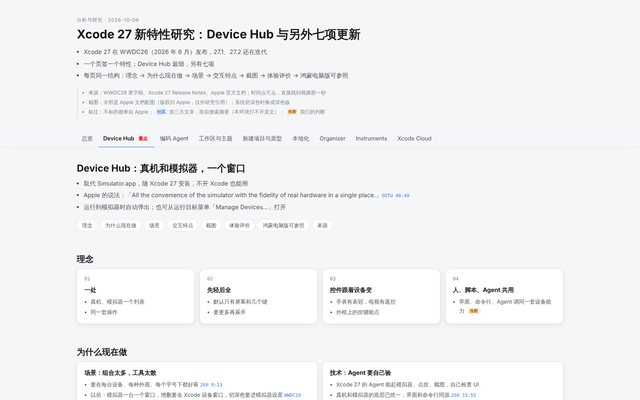
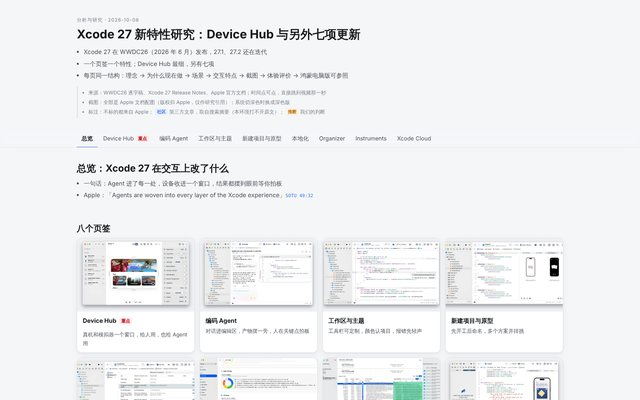
Xcode 27 研究：补新建项目与原型、总览两个页签，九个页签齐了；重截启动页缩略图
- 新建项目与原型：无标题工程、单文件即预览、命名预览成页签、Agent 出多方案
- 总览：八个页签的图卡入口、三个判断、一览表、为什么是现在、鸿蒙电脑版先做的五件、方法与局限
- 去掉初稿遗留样式，补回窄屏单列规则；页签链接切换后回到页签栏
- 启动页卡片说明按现状更新；缩略图与脚本版本号 → 20261008h

diff --git a/analysis/xcode27/REPORT-Xcode27新特性研究.html b/analysis/xcode27/REPORT-Xcode27新特性研究.html
@@ -37,7 +37,6 @@ h1{font-size:30px;line-height:1.3;margin:6px 0 12px}
 h2{font-size:21px;margin:52px 0 6px}
 h2 small{font-size:13px;font-weight:400;color:var(--ink3);margin-left:8px}
 h3{font-size:16px;margin:26px 0 8px}
-.sub{color:var(--ink2);margin:0 0 16px;max-width:84ch}
 nav.toc{display:flex;flex-wrap:wrap;gap:6px;margin:18px 0 0}
 nav.toc a{font-size:13px;border:1px solid var(--line);background:var(--paper);border-radius:999px;padding:3px 12px;color:var(--ink2)}
 
@@ -54,44 +53,7 @@ nav.toc a{font-size:13px;border:1px solid var(--line);background:var(--paper);bo
 .panel>h2:first-child{margin-top:28px}
 .pt{font-size:24px;line-height:1.35;margin:28px 0 8px}
 
-/* 结论卡 */
-.keys{display:grid;grid-template-columns:repeat(3,minmax(0,1fr));gap:12px;margin-top:20px}
-.keys.k4{grid-template-columns:repeat(4,minmax(0,1fr))}
-.key{background:var(--paper);border:1px solid var(--line);border-radius:12px;padding:16px 18px;box-shadow:var(--shadow)}
-.key b{display:block;font-size:15px;margin-bottom:4px}
-.key span,.key p{color:var(--ink2);font-size:13.5px;margin:0}
-.key .n{font-family:var(--mono);font-size:12px;color:var(--ink3);margin-bottom:6px;display:block}
-
-/* 引文 */
-.quotes{display:grid;grid-template-columns:repeat(2,minmax(0,1fr));gap:12px;margin:18px 0 0}
-.q{margin:0;background:var(--paper);border:1px solid var(--line);border-left:3px solid var(--ap);border-radius:10px;padding:12px 16px;box-shadow:var(--shadow)}
-.q blockquote{margin:0;font-style:italic;color:var(--ink);font-size:13.5px}
-.q figcaption{margin-top:6px;font-size:12.5px;color:var(--ink2)}
 .ts{font-family:var(--mono);font-size:11.5px;white-space:nowrap}
-.en{font-style:italic;color:var(--ink2)}
-
-/* 速览 */
-.facts{display:grid;grid-template-columns:repeat(2,minmax(0,1fr));gap:6px 28px;margin:18px 0 0;background:var(--paper);border:1px solid var(--line);border-radius:12px;padding:14px 18px;box-shadow:var(--shadow)}
-.facts div{display:grid;grid-template-columns:4.5em 1fr;gap:10px;font-size:13.5px;padding:4px 0;border-bottom:1px dashed var(--line2)}
-.facts dt{color:var(--ink3);margin:0} .facts dd{margin:0;color:var(--ink2)}
-
-/* 动因四层 */
-.why{display:grid;grid-template-columns:repeat(2,minmax(0,1fr));gap:12px}
-.why>div{background:var(--paper);border:1px solid var(--line);border-radius:12px;padding:14px 18px;box-shadow:var(--shadow)}
-.why h4{margin:0 0 6px;font-size:14.5px}
-.why h4 i{font-style:normal;font-family:var(--mono);font-size:12px;color:var(--ink3);margin-right:6px}
-.why ul{margin:0;padding-left:18px;color:var(--ink2);font-size:13.5px} .why li{margin:4px 0}
-
-/* 场景流程 */
-.flows{display:grid;grid-template-columns:repeat(2,minmax(0,1fr));gap:12px}
-.flow{background:var(--paper);border:1px solid var(--line);border-radius:12px;padding:14px 18px;box-shadow:var(--shadow)}
-.flow.wide{grid-column:1/-1}
-.flow h4{margin:0 0 2px;font-size:14.5px}
-.flow .who{font-size:12.5px;color:var(--ink3);margin-bottom:8px}
-.flow ol{margin:0;padding-left:20px;color:var(--ink2);font-size:13.5px} .flow li{margin:3px 0}
-.flow .cols{display:grid;grid-template-columns:repeat(2,minmax(0,1fr));gap:4px 24px}
-.flow .role{font-size:12px;font-weight:600;color:var(--ink);margin:6px 0 2px}
-.flow .end{margin:8px 0 0;font-size:13px;color:var(--ink2);border-top:1px dashed var(--line);padding-top:8px}
 
 /* 表格 */
 .tw{background:var(--paper);border:1px solid var(--line);border-radius:12px;overflow:auto;box-shadow:var(--shadow)}
@@ -100,13 +62,10 @@ th,td{text-align:left;vertical-align:top;padding:10px 12px;border-bottom:1px sol
 thead th{font-size:12px;color:var(--ink3);background:var(--line2);font-weight:600}
 tbody th{font-weight:600;white-space:nowrap}
 tr:last-child td,tr:last-child th{border-bottom:none}
-td p{margin:0 0 4px} td p:last-child{margin:0}
-td .claim{font-weight:600;color:var(--ink)}
 .ev{display:inline-block;font-size:11px;font-weight:600;border-radius:4px;padding:0 5px;line-height:17px;margin-left:4px;vertical-align:1px;white-space:nowrap;font-style:normal}
 .ev.o{background:var(--ok-bg);color:var(--ok)}      /* 官方 */
 .ev.m{background:var(--ap-bg);color:var(--ap)}      /* 社区 / 媒体 */
 .ev.i{background:var(--warn-bg);color:var(--warn)}  /* 推断 */
-.ev.q{background:var(--mute-bg);color:var(--ink3)}  /* 待确认 */
 .legend{display:flex;flex-wrap:wrap;gap:10px;font-size:12.5px;color:var(--ink2);margin:0 0 12px}
 
 /* 截图 */
@@ -121,38 +80,16 @@ td .claim{font-weight:600;color:var(--ink)}
 .shot figcaption b{color:var(--ink)}
 .shot .from{display:block;font-size:12px;color:var(--ink3);margin-top:4px}
 
-/* 设备层示意 */
-.layer{display:grid;gap:8px;background:var(--paper);border:1px solid var(--line);border-radius:12px;padding:16px;box-shadow:var(--shadow);margin-top:12px}
-.layer .row{display:grid;grid-template-columns:repeat(3,minmax(0,1fr));gap:8px}
-.layer .box{border:1px solid var(--line);border-radius:10px;padding:10px 12px;font-size:13px;color:var(--ink2);background:var(--bg)}
-.layer .box b{display:block;color:var(--ink);font-size:13.5px}
-.layer .bar{border-radius:10px;padding:10px 12px;font-size:13px;text-align:center;background:var(--ap-bg);color:var(--ap);font-weight:600}
-.layer .bar span{display:block;font-weight:400;font-size:12.5px;color:var(--ink2)}
-.layer .arrow{text-align:center;color:var(--ink3);font-size:12px;line-height:1}
-.layer .cap{font-size:12.5px;color:var(--ink3);margin:2px 0 0}
-
-/* 社区 */
-.voices{display:grid;grid-template-columns:repeat(2,minmax(0,1fr));gap:12px}
-.voice{background:var(--paper);border:1px solid var(--line);border-radius:12px;padding:14px 16px;box-shadow:var(--shadow)}
-.voice b{display:block;margin-bottom:4px}
-.voice span{color:var(--ink2);font-size:13.5px}
-.voice.pos{border-top:3px solid var(--ok)} .voice.neg{border-top:3px solid var(--warn)} .voice.eco{border-top:3px solid var(--ap)}
-ul.plain{margin:0;padding-left:20px;color:var(--ink2)} ul.plain li{margin:4px 0}
-
 /* 机会点 */
 .lvl{display:inline-block;font-size:11.5px;font-weight:700;border-radius:5px;padding:0 7px;line-height:19px;white-space:nowrap}
 .lvl.a{background:var(--hm);color:#fff} .lvl.b{background:var(--ap-bg);color:var(--ap)} .lvl.c{background:var(--mute-bg);color:var(--ink2)}
 .cmp{font-size:12px;font-weight:600;white-space:nowrap}
 .cmp.u{color:var(--hm)} .cmp.y{color:var(--ap)}
-.hmbox{background:color-mix(in srgb,var(--hm-bg) 55%,var(--paper));border:1px solid color-mix(in srgb,var(--hm) 25%,var(--line));border-radius:12px;padding:14px 18px;margin:0 0 12px;color:var(--ink2);font-size:13.5px}
-.hmbox b{color:var(--ink)}
-.hmbox p{margin:0 0 6px} .hmbox p:last-child{margin:0}
 
 .src{font-size:12.5px;color:var(--ink2);columns:2;column-gap:28px;padding-left:18px}
 .src li{margin:2px 0;break-inside:avoid}
 .src .grp{list-style:none;margin:10px 0 2px -18px;font-weight:600;color:var(--ink);break-after:avoid}
 .src .grp:first-child{margin-top:0}
-
 
 /* v2：分点、卡片 */
 ul.pts{margin:0;padding-left:1.15em;color:var(--ink2)} ul.pts li{margin:3px 0}
@@ -180,15 +117,26 @@ ul.pts.hmnote b{color:var(--ink)}
 .shot figcaption ul.pts{margin-top:4px}
 .shot .from{display:inline;margin-left:6px}
 
+/* 总览：特性卡 */
+.feat{display:grid;grid-template-columns:repeat(4,minmax(0,1fr));gap:12px}
+.feat a{display:flex;flex-direction:column;background:var(--paper);border:1px solid var(--line);border-radius:12px;overflow:hidden;color:inherit;box-shadow:var(--shadow);text-decoration:none}
+.feat a:hover{border-color:var(--accent)}
+.feat picture{display:block;background:var(--line2)}
+.feat img{display:block;width:100%;height:auto;aspect-ratio:16/10;object-fit:cover;object-position:50% 35%}
+.feat b{display:block;font-size:15px;margin:10px 14px 2px;color:var(--ink)}
+.feat b .k{display:inline-block;font-size:11px;font-weight:600;color:var(--hm);background:var(--hm-bg);border-radius:4px;padding:0 5px;margin-left:4px;line-height:17px;vertical-align:1px}
+.feat span{display:block;font-size:13px;color:var(--ink2);margin:0 14px 12px}
+ol.steps.big{font-size:14.5px;padding-left:1.5em} ol.steps.big li{margin:8px 0} ol.steps.big b{color:var(--ink)}
+.tagd{display:inline-block;font-size:11.5px;color:var(--ink3);background:var(--line2);border-radius:5px;padding:0 7px;line-height:19px;margin-left:6px;white-space:nowrap}
+
 @media (max-width:900px){
-  .keys,.keys.k4,.quotes,.why,.flows,.voices,.shots,.facts,.flow .cols,.layer .row,.cards.c2,.cards.c3,.split{grid-template-columns:1fr}
-  .cards.c4{grid-template-columns:repeat(2,minmax(0,1fr))}
+  .shots,.cards.c2,.cards.c3,.split{grid-template-columns:1fr}
+  .cards.c4,.feat{grid-template-columns:repeat(2,minmax(0,1fr))}
   .src{columns:1}
 }
 @media (max-width:560px){
   .wrap{padding:24px 16px 0} .wrap.body{padding:8px 16px 60px} .tabs .in{padding:0 8px}
-  h1{font-size:24px} .pt{font-size:20px} .cards.c4{grid-template-columns:1fr}
-  .facts div{grid-template-columns:4em 1fr}
+  h1{font-size:24px} .pt{font-size:20px} .cards.c4{grid-template-columns:1fr} .tagd{white-space:normal}
 }
 @media print{
   .tabs{display:none} .panel[hidden]{display:block} .panel{break-before:page}
@@ -227,7 +175,72 @@ ul.pts.hmnote b{color:var(--ink)}
 
 <!-- ======================================================= 总览 -->
 <section class="panel" id="overview" role="tabpanel" aria-labelledby="t-overview">
-<!--OVERVIEW-->
+  <h2 class="pt">总览：Xcode 27 在交互上改了什么</h2>
+  <ul class="pts lead">
+    <li>一句话：Agent 进了每一处，设备收进一个窗口，结果都摆到眼前等你拍板</li>
+    <li>Apple：「Agents are woven into every layer of the Xcode experience」<a class="ts" href="https://developer.apple.com/videos/play/wwdc2026/102/?time=2972">SOTU 49:32</a></li>
+  </ul>
+
+  <h2>八个页签</h2>
+  <div class="feat">
+    <a href="#device-hub"><picture><source media="(prefers-color-scheme: dark)" srcset="images/device-hub/resize-iphone-canvas-dark.webp"><img src="images/device-hub/resize-iphone-canvas.webp" width="1600" height="1011" alt="Device Hub 完整窗口"></picture><b>Device Hub <span class="k">重点</span></b><span>真机和模拟器一个窗口，给人用，也给 Agent 用</span></a>
+    <a href="#agents"><picture><source media="(prefers-color-scheme: dark)" srcset="images/agents/coding-assistant-write-code-dark.webp"><img src="images/agents/coding-assistant-write-code.webp" width="1600" height="990" alt="编码助手在编辑区"></picture><b>编码 Agent</b><span>对话进编辑区，产物摆一旁，人在关键点拍板</span></a>
+    <a href="#workspace"><picture><source media="(prefers-color-scheme: dark)" srcset="images/workspace/coding-assistant-generate-fix-it-dark.webp"><img src="images/workspace/coding-assistant-generate-fix-it.webp" width="1600" height="929" alt="低调的行内问题"></picture><b>工作区与主题</b><span>工具栏可定制，颜色认项目，报错先轻声</span></a>
+    <a href="#new-project"><picture><source media="(prefers-color-scheme: dark)" srcset="images/new-project/show-previews-in-canvas-dark.webp"><img src="images/new-project/show-previews-in-canvas.webp" width="1600" height="868" alt="命名预览变成画布页签"></picture><b>新建项目与原型</b><span>先开工后命名，多个方案并排挑</span></a>
+    <a href="#localization"><picture><source media="(prefers-color-scheme: dark)" srcset="images/localization/string-catalog-editor-generate-translations-button-dark.webp"><img src="images/localization/string-catalog-editor-generate-translations-button.webp" width="1600" height="868" alt="字符串目录里生成译文"></picture><b>本地化</b><span>说一句加语言，Agent 带上下文译，人只审</span></a>
+    <a href="#organizer"><picture><source media="(prefers-color-scheme: dark)" srcset="images/organizer/analyzing-the-performance-of-your-shipping-app-insights-overview-dark.webp"><img src="images/organizer/analyzing-the-performance-of-your-shipping-app-insights-overview.webp" width="1470" height="885" alt="Organizer 总览"></picture><b>Organizer</b><span>线上问题一屏看，选一条交给 Agent</span></a>
+    <a href="#instruments"><picture><source media="(prefers-color-scheme: dark)" srcset="images/instruments/run-comparison-view-dark.webp"><img src="images/instruments/run-comparison-view.webp" width="1470" height="845" alt="改前改后对比"></picture><b>Instruments</b><span>最重函数 + 改前改后对比，卡顿从猜变成证</span></a>
+    <a href="#xcode-cloud"><picture><source media="(prefers-color-scheme: dark)" srcset="images/xcode-cloud/xcode-cloud-get-started-dark.webp"><img src="images/xcode-cloud/xcode-cloud-get-started.webp" width="1600" height="990" alt="Xcode Cloud 入口"></picture><b>Xcode Cloud</b><span>三步跑起首次云端构建，发版往后放</span></a>
+  </div>
+
+  <h2>三个判断</h2>
+  <div class="cards c3">
+    <div class="card"><span class="n">01</span><b>Agent 进了每一处</b><ul class="pts"><li>编辑器、本地化、线上问题、性能、设备，都能交给 Agent</li><li>人只在关键点出手：批计划、写批注、看对比</li></ul></div>
+    <div class="card"><span class="n">02</span><b>「验」成了主角</b><ul class="pts"><li>「new tools for agents to check their work」<a class="ts" href="https://developer.apple.com/videos/play/wwdc2026/102/?time=3193">SOTU 53:13</a></li><li>设备自验、预览变体、性能对比、云端构建，都在帮人和 Agent 验</li></ul></div>
+    <div class="card"><span class="n">03</span><b>少打扰，一眼可见</b><ul class="pts"><li>紧凑窗、淡色问题、标题下的进度</li><li>会话状态点、按影响排序的总览</li></ul></div>
+  </div>
+
+  <h2>一览<small>交互 → 给谁 → 解决什么</small></h2>
+  <div class="tw"><table class="slim">
+    <thead><tr><th>页签</th><th>交互的核心</th><th>给谁</th><th>解决什么</th></tr></thead>
+    <tbody>
+      <tr><th><a href="#device-hub">Device Hub</a></th><td>紧凑窗 → 三栏；设置即改即见；导出 / 换上 App 数据</td><td>跑 App 的人、测试</td><td>设备散、配置难、复现难</td></tr>
+      <tr><th><a href="#agents">编码 Agent</a></th><td>左对话右产物；计划可批注；会话状态点</td><td>用 Agent 的开发者</td><td>改了什么看不全、不知道谁在等我</td></tr>
+      <tr><th><a href="#workspace">工作区与主题</a></th><td>进度在标题下；按工作区设主题；预测问题淡显</td><td>所有人</td><td>被打断、认不出项目</td></tr>
+      <tr><th><a href="#new-project">新建项目与原型</a></th><td>无标题工程；单文件即预览；命名预览成页签</td><td>想试点子的人</td><td>起步门槛高、被第一个方案带偏</td></tr>
+      <tr><th><a href="#localization">本地化</a></th><td>说一句加语言；目录里一键生成；进度实时填表</td><td>做多语言的团队</td><td>工程量大、同词异义</td></tr>
+      <tr><th><a href="#organizer">Organizer</a></th><td>按影响排序；目标线；「生成建议」交给 Agent</td><td>已上架的开发者</td><td>看见了却不知道怎么修</td></tr>
+      <tr><th><a href="#instruments">Instruments</a></th><td>最重函数；同区间红绿对比；并发轨道</td><td>查卡顿的人</td><td>开销分散、修完难验</td></tr>
+      <tr><th><a href="#xcode-cloud">Xcode Cloud</a></th><td>三步首跑；默认流程；发版时才建记录</td><td>第一次用 CI 的人</td><td>配置门槛高</td></tr>
+    </tbody>
+  </table></div>
+
+  <h2>为什么是现在</h2>
+  <div class="cards c2">
+    <div class="card"><b>Agent 成熟了</b><ul class="pts"><li>Claude、Codex、Gemini 进了 Xcode，模型自选</li><li>MCP、ACP、Skills 让 Agent 能调 Xcode 的工具</li></ul></div>
+    <div class="card"><b>写得快，验成了瓶颈</b><ul class="pts"><li>「writing more code than ever before」<a class="ts" href="https://developer.apple.com/videos/play/wwdc2026/261/?time=82">261 1:22</a></li><li>于是有计划审批、设备自验、性能对比、云端兜底</li></ul></div>
+    <div class="card"><b>平台在变</b><ul class="pts"><li>Liquid Glass 新外观，带来新的动画掉帧</li><li>iPhone 应用可缩放、iPhone Duo、Vision Pro：尺寸和形态都变多</li></ul></div>
+    <div class="card"><b>竞争在 IDE 外</b><ul class="pts"><li>Claude Code、Codex、Cursor 在 Xcode 之外抢开发者 <span class="ev i">推断</span></li><li>Apple 的牌：「回答扎根 Swift 与 Apple 框架」<a class="ts" href="https://developer.apple.com/videos/play/wwdc2026/102/?time=2999">SOTU 49:59</a>，加上设备与线上数据这些只有平台方才有的能力</li></ul></div>
+  </div>
+
+  <h2>鸿蒙电脑版：先做这五件</h2>
+  <ol class="steps big">
+    <li><b>设备中心三栏化 + 紧凑窗</b>：本机窗口、模拟器、真机一处管，跑起来就弹小窗，按键随形态变 <span class="tagd">Device Hub · 接 20 / 17</span></li>
+    <li><b>拖宽即切断点</b>：设备中心和预览器同一套拖边手势，吸附一多断点 <span class="tagd">Device Hub · 新建项目 · 接 17</span></li>
+    <li><b>真机发现、模拟器复现</b>：截图 + HiLog + 沙箱数据 + 设备配置打成现场包，一键套用 <span class="tagd">Device Hub · 接 20 / 27 / 28</span></li>
+    <li><b>一个设备层给人、hdc、Agent 共用</b>：Agent 在本机窗口和真机上自己点、截图验，占用状态三处一致 <span class="tagd">Device Hub · 编码 Agent · 接 23 / 07</span></li>
+    <li><b>线上问题总览 + 一键交给 Agent</b>：崩溃、冻屏、冷启动按影响排，报告右上角「交给 Agent」 <span class="tagd">Organizer · 接 22 / 28</span></li>
+  </ol>
+  <p class="gap">每个页签末尾还有各自的「鸿蒙电脑版可参照」，标了档位和要接的 demo。鸿蒙电脑能本机跑应用，碰一碰、多屏协同、键鼠穿越都是 Apple 没有的牌（推断）。</p>
+
+  <h2>方法与局限</h2>
+  <ul class="pts">
+    <li>一手材料：WWDC26 的 Keynote、State of the Union 和十余个专题 session 的逐字稿；Xcode 27 / 27.1 / 27.2 Release Notes；Apple 官方文档</li>
+    <li>截图全部来自 Apple 文档；视频画面因网络策略拿不到</li>
+    <li>第三方评价只有搜索摘要，多来自 6–9 月的 beta 期，正式版可能已变</li>
+    <li>计划审批、行内批注、「等你」状态、无标题工程等界面，Apple 文档暂无配图</li>
+  </ul>
+
 </section>
 
 <!-- ======================================================= Device Hub -->
@@ -600,7 +613,102 @@ ul.pts.hmnote b{color:var(--ink)}
     <li><a href="https://jetbrains.com/guide/tips/configuring-the-new-ui">JetBrains 新 UI</a> · <a href="https://github.com/johnpapa/vscode-peacock">VS Code Peacock</a></li>
   </ul>
 </section>
-<!--TAB:new-project-->
+<section class="panel" id="new-project" role="tabpanel" aria-labelledby="t-new-project" hidden>
+  <h2 class="pt">新建项目与原型：点子一来就开工，多个方案并排看，人来拍板</h2>
+  <ul class="pts lead">
+    <li>「A brand new untitled project is created, no questions asked. Literally!」<a class="ts" href="https://developer.apple.com/videos/play/wwdc2026/258/?time=411">258 6:51</a></li>
+    <li>单个 Swift 文件不在工程里，也能直接出预览和运行结果</li>
+    <li>做原型：让 Agent 一次出十个方案，在画布页签里点着比 <a class="ts" href="https://developer.apple.com/videos/play/wwdc2026/227/?time=308">227 5:08</a></li>
+  </ul>
+  <nav class="toc">
+    <a href="#np-idea">理念</a><a href="#np-why">为什么现在做</a><a href="#np-scenes">场景</a><a href="#np-traits">交互特点</a><a href="#np-shots">截图</a><a href="#np-review">体验评价</a><a href="#np-hm">鸿蒙电脑版可参照</a><a href="#np-src">来源</a>
+  </nav>
+
+  <h2 id="np-idea">理念</h2>
+  <div class="cards c3">
+    <div class="card"><span class="n">01</span><b>先开工，后命名</b><ul class="pts"><li>不问名字、团队、路径</li><li>想好再存，不要就整个丢掉 <a class="ts" href="https://developer.apple.com/videos/play/wwdc2026/258/?time=420">7:00</a></li></ul></div>
+    <div class="card"><span class="n">02</span><b>多个方案，人来挑</b><ul class="pts"><li>一次要多个，免得被第一个方案带偏 <a class="ts" href="https://developer.apple.com/videos/play/wwdc2026/227/?time=219">227 3:39</a></li></ul></div>
+    <div class="card"><span class="n">03</span><b>Agent 干活，人拍板</b><ul class="pts"><li>「Remember, you always have final say.」<a class="ts" href="https://developer.apple.com/videos/play/wwdc2026/227/?time=172">227 2:52</a></li></ul></div>
+  </div>
+
+  <h2 id="np-why">为什么现在做</h2>
+  <div class="cards c2">
+    <div class="card"><b>场景：点子随时冒出来</b><ul class="pts"><li>同事发来一个想法、一段代码，想马上试 <a class="ts" href="https://developer.apple.com/videos/play/wwdc2026/258/?time=361">258 6:01</a></li><li>以前先过模板选择器、填一页选项</li></ul></div>
+    <div class="card"><b>技术：Agent 出原生代码，预览不用重建</b><ul class="pts"><li>原型就是真代码，能直接接着做 <a class="ts" href="https://developer.apple.com/videos/play/wwdc2026/227/?time=144">227 2:24</a></li><li>预览改完就看，不用每次构建运行</li></ul></div>
+    <div class="card"><b>平台：要看各种宽度</b><ul class="pts"><li>iPhone 应用能缩放了，画布也能拖边改尺寸 <span class="ev i">推断</span></li></ul></div>
+    <div class="card"><b>竞争：AI 原型工具很多</b><ul class="pts"><li>Android Studio 新建项目可选「用 AI 创建」<span class="ev m">社区</span></li><li>Apple 把「试一下」放进 IDE 本身</li></ul></div>
+  </div>
+
+  <h2 id="np-scenes">场景</h2>
+  <div class="cards c2">
+    <div class="card"><b>A · 点子 → 无标题工程 → 交给 Agent</b><span class="src1"><a class="ts" href="https://developer.apple.com/videos/play/wwdc2026/258/?time=379">258 6:19</a></span>
+      <ol class="steps"><li>File 菜单新建：App、命令行、包、Playground</li><li>选 App：直接得到无标题工程</li><li>随便试；想好再命名保存，或丢弃</li><li>同事发来一个 Swift 文件：开窗就有预览和结果</li><li>值得做下去：工具栏开对话，/plan 先出计划</li><li>读计划、批注、放行；改动在右侧看</li></ol></div>
+    <div class="card"><b>B · App 想法 → 多方案 → 调细节</b><span class="src1"><a class="ts" href="https://developer.apple.com/videos/play/wwdc2026/227/?time=274">227 4:34</a></span>
+      <ol class="steps"><li>说清功能和气质，要多个方案，各带命名预览</li><li>一次得到 10 个，在画布页签间点选</li><li>告诉 Agent 哪些元素混搭，再来一轮</li><li>让 Agent 扮演用户填真实内容；自己列边界情况</li><li>补空状态、文字溢出、超长列表</li><li>让 Agent 做调参面板，凭手感调动效</li></ol></div>
+  </div>
+
+  <h2 id="np-traits">交互特点<small>交互 → 给谁 → 解决什么</small></h2>
+  <div class="tw narrow"><table class="slim">
+    <thead><tr><th>交互</th><th>给谁</th><th>解决什么</th></tr></thead>
+    <tbody>
+      <tr><th>新建下拉直列四种起点</th><td>想试点子的人</td><td>先开工，不先选模板</td></tr>
+      <tr><th>无标题工程：存或丢</th><td>试验阶段的人</td><td>没成型的想法不占名字</td></tr>
+      <tr><th>单个文件开窗即预览</th><td>收到代码片段的人</td><td>脱离工程也能跑</td></tr>
+      <tr><th>命名预览 = 画布页签</th><td>比方案的人</td><td>多个方案一键切</td></tr>
+      <tr><th>变体并排、画布拖边</th><td>查边界情况的人</td><td>深浅色、字号、宽度一屏看</td></tr>
+      <tr><th>Agent 做调参面板</th><td>调动效的人</td><td>凭手感调，反馈更快</td></tr>
+    </tbody>
+  </table></div>
+
+  <h2 id="np-shots">截图</h2>
+  <div class="shots">
+    <figure class="shot tall"><a href="images/new-project/choosing-new-project-app.webp" target="_blank" rel="noopener"><picture><source media="(prefers-color-scheme: dark)" srcset="images/new-project/choosing-new-project-app-dark.webp"><img src="images/new-project/choosing-new-project-app.webp" width="1184" height="1488" loading="lazy" alt="欢迎窗的 New Project 下拉：App、命令行工具、包、Playground、选择模板"></picture></a>
+      <figcaption><b>新建下拉</b>：App、命令行工具、Playground 一点就开；经典模板向导退到最后一项 <span class="from"><a href="https://developer.apple.com/documentation/xcode/creating-an-xcode-project-for-an-app">新建项目</a></span></figcaption></figure>
+    <figure class="shot"><a href="images/new-project/coding-assistant-run-playground.webp" target="_blank" rel="noopener"><picture><source media="(prefers-color-scheme: dark)" srcset="images/new-project/coding-assistant-run-playground-dark.webp"><img src="images/new-project/coding-assistant-run-playground.webp" width="1600" height="1112" loading="lazy" alt="Playground 代码在左，结果在画布里"></picture></a>
+      <figcaption><b>Playground</b>：左边代码，右边画布直接出结果（值、地图） <span class="from"><a href="https://developer.apple.com/documentation/xcode/using-coding-intelligence-in-the-source-editor">编辑器里的智能</a></span></figcaption></figure>
+    <figure class="shot wide"><a href="images/new-project/show-previews-in-canvas.webp" target="_blank" rel="noopener"><picture><source media="(prefers-color-scheme: dark)" srcset="images/new-project/show-previews-in-canvas-dark.webp"><img src="images/new-project/show-previews-in-canvas.webp" width="1600" height="868" loading="lazy" alt="四个命名预览变成画布顶部的页签，下方深浅色并排"></picture></a>
+      <figcaption><b>命名预览 = 页签</b>：代码里四个 #Preview 变成画布顶部四个页签；下面深浅色并排 <span class="from"><a href="https://developer.apple.com/documentation/xcode/interacting-with-previews-in-the-canvas">画布预览</a></span></figcaption></figure>
+    <figure class="shot wide"><a href="images/new-project/resize-preview-screen.webp" target="_blank" rel="noopener"><picture><source media="(prefers-color-scheme: dark)" srcset="images/new-project/resize-preview-screen-dark.webp"><img src="images/new-project/resize-preview-screen.webp" width="1600" height="990" loading="lazy" alt="可缩放的预览画布，四边有把手，显示尺寸"></picture></a>
+      <figcaption><b>画布拖边改尺寸</b>：和 Device Hub 一样的四边把手与尺寸读数 <span class="from"><a href="https://developer.apple.com/documentation/xcode/interacting-with-previews-in-the-canvas">画布预览</a></span></figcaption></figure>
+  </div>
+  <p class="gap">无标题工程窗口、单文件独立窗口，Apple 文档暂无配图。</p>
+
+  <h2 id="np-review">体验评价</h2>
+  <div class="cards c2">
+    <div class="card good"><b>做得好</b><ul class="pts">
+      <li>起步零阻力：先开工，想好再命名</li>
+      <li>多方案一屏切换，不被第一个方案锚定</li>
+      <li>人始终拍板：计划先读后放行，可批注、可回退</li>
+    </ul></div>
+    <div class="card bad"><b>不足</b><ul class="pts">
+      <li>提示词有门槛：说得含糊，Agent 就乱猜 <a class="ts" href="https://developer.apple.com/videos/play/wwdc2026/227/?time=194">227 3:14</a></li>
+      <li>从 Finder 双击 Swift 文件，预览可能不跑（已知问题）</li>
+      <li>菜单入口变少，老路径要重新找 <span class="ev m">社区</span></li>
+    </ul></div>
+  </div>
+
+  <h2 id="np-hm">鸿蒙电脑版可参照</h2>
+  <div class="tw"><table class="slim">
+    <thead><tr><th>借什么</th><th>用在鸿蒙电脑版</th><th>档位</th><th>接哪个 demo</th></tr></thead>
+    <tbody>
+      <tr><th>无标题工程</th><td>新建不先问名字、包名、路径；先跑起来，想好再存</td><td><span class="lvl b">跟上</span></td><td>26</td></tr>
+      <tr><th>单文件即预览</th><td>别人发来一个 .ets 文件，打开就在本机窗口预览，不用建工程 <span class="cmp y">人有我优</span></td><td><span class="lvl a">主攻</span></td><td>26 · 13</td></tr>
+      <tr><th>多方案并排</th><td>Agent 一次出几个界面方案，预览器页签切换、可混搭</td><td><span class="lvl b">跟上</span></td><td>09 · 13</td></tr>
+      <tr><th>画布拖边</th><td>预览器拖边吸附一多断点，和设备中心同一套手势</td><td><span class="lvl b">跟上</span></td><td>17</td></tr>
+    </tbody>
+  </table></div>
+
+  <h2 id="np-src">来源</h2>
+  <ul class="src">
+    <li class="grp">Apple</li>
+    <li><a href="https://developer.apple.com/videos/play/wwdc2026/258/?time=361">258 What's new in Xcode 27 · 6:01 新建项目</a></li>
+    <li><a href="https://developer.apple.com/videos/play/wwdc2026/227/">227 Create UI prototypes using agents in Xcode</a> · <a href="https://developer.apple.com/videos/play/wwdc2026/8013/">8013 Xcode Tips and Tricks</a></li>
+    <li><a href="https://developer.apple.com/documentation/xcode/creating-an-xcode-project-for-an-app">新建项目</a> · <a href="https://developer.apple.com/documentation/xcode/interacting-with-previews-in-the-canvas">画布预览</a> · <a href="https://developer.apple.com/documentation/xcode/running-code-snippets-using-the-playground-macro">Playground</a></li>
+    <li><a href="https://developer.apple.com/documentation/xcode-release-notes/xcode-27-release-notes">Xcode 27 Release Notes · Previews / Playgrounds</a></li>
+    <li class="grp">社区 · 搜索摘要</li>
+    <li><a href="https://developer.android.com/studio/gemini/create-a-new-project-with-ai">Android Studio · 用 AI 新建项目</a> · <a href="https://mjtsai.com/blog/?p=52156">Michael Tsai · Xcode 27 Announced</a></li>
+  </ul>
+</section>
 <section class="panel" id="localization" role="tabpanel" aria-labelledby="t-localization" hidden>
   <h2 class="pt">本地化：说一句加语言，Agent 带着上下文译完，人只审改</h2>
   <ul class="pts lead">
@@ -1044,7 +1152,7 @@ ul.pts.hmnote b{color:var(--ink)}
       show(n.dataset.tab, {focusTab:true, reveal:true, top:true});
     });
   });
-  window.addEventListener('hashchange', function(){ show(location.hash.slice(1), {reveal:true}); });
+  window.addEventListener('hashchange', function(){ show(location.hash.slice(1), {reveal:true, top:true}); });
   show(location.hash.slice(1) || 'overview', {reveal:true});
 })();
 </script>

diff --git a/site/catalog.js b/site/catalog.js
@@ -371,10 +371,10 @@ window.DEVECO_CATALOG = {
         },
         {
           title: 'Xcode 27 新特性研究：Device Hub 与另外七项更新', subtitle: 'Xcode 27 · Device Hub, Agents, Workspace, Localization, Instruments…',
-          desc: '一个页签一个特性：Device Hub 最详细，另有编码 Agent、工作区与主题、新建项目与原型、本地化、Organizer、Instruments、Xcode Cloud。每页写理念、苹果为什么现在做（场景 / 技术 / 平台 / 竞争）、Apple 演示的场景、交互特点对应谁、解决什么痛点，配 Apple 文档截图，最后是鸿蒙电脑版可参照的点。来源是 WWDC26 逐字稿、release notes 与官方文档，每条标口径。',
+          desc: '一个页签一个特性：Device Hub 最详细，另有编码 Agent、工作区与主题、新建项目与原型、本地化、Organizer、Instruments、Xcode Cloud。每页同一结构、分点短句、从交互与体验看：理念、为什么现在做（场景 / 技术 / 平台 / 竞争）、Apple 演示的场景、交互 → 给谁 → 解决什么、Apple 文档截图、体验评价、鸿蒙电脑版可参照。来源是 WWDC26 逐字稿、release notes 与官方文档，第三方与推断另标。',
           view: 'doc', date: '2026-10-08', href: 'analysis/xcode27/REPORT-Xcode27新特性研究.html',
           links: [{ label: 'Device Hub', href: 'analysis/xcode27/REPORT-Xcode27新特性研究.html#device-hub' }, { label: '编码 Agent', href: 'analysis/xcode27/REPORT-Xcode27新特性研究.html#agents' }],
-          tags: ['Xcode 27', 'Device Hub', '友商研究', '鸿蒙电脑版', '截图'], thumb: { type: 'image', src: 'site/thumbs/xcode27.jpg' },
+          tags: ['Xcode 27', 'Device Hub', '友商研究', '鸿蒙电脑版', '截图'], thumb: { type: 'image', src: 'site/thumbs/xcode27.jpg?v=20261008h' },
         },
         {
           title: 'DevEco 生态位与体验舆情', subtitle: 'DevEco Ecosystem Position & Sentiment',

diff --git a/index.html b/index.html
@@ -66,7 +66,7 @@
   </footer>
 </div>
 
-<script src="site/catalog.js?v=20261008g"></script>
-<script src="site/launcher.js?v=20261008g"></script>
+<script src="site/catalog.js?v=20261008h"></script>
+<script src="site/launcher.js?v=20261008h"></script>
 </body>
 </html>
